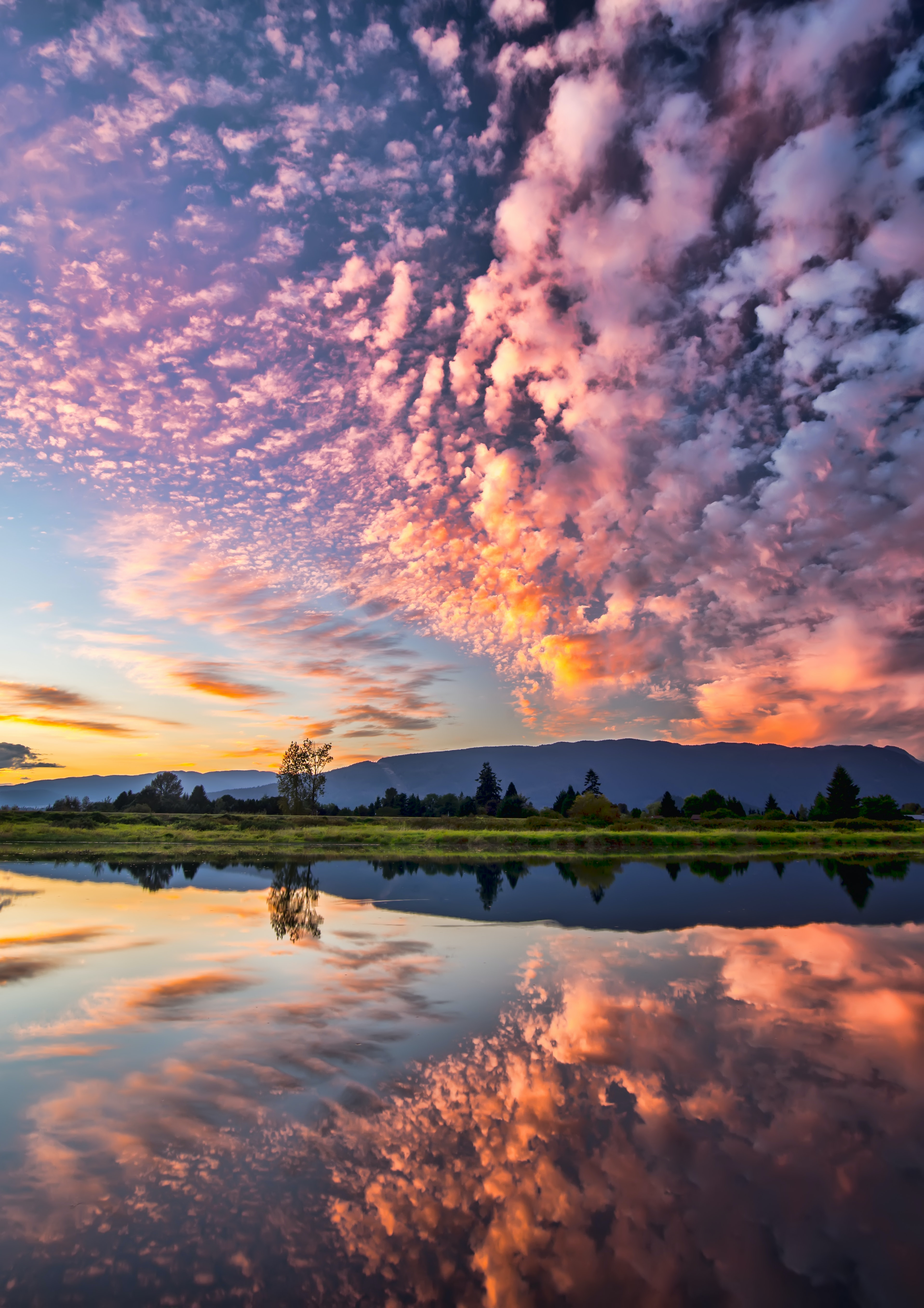
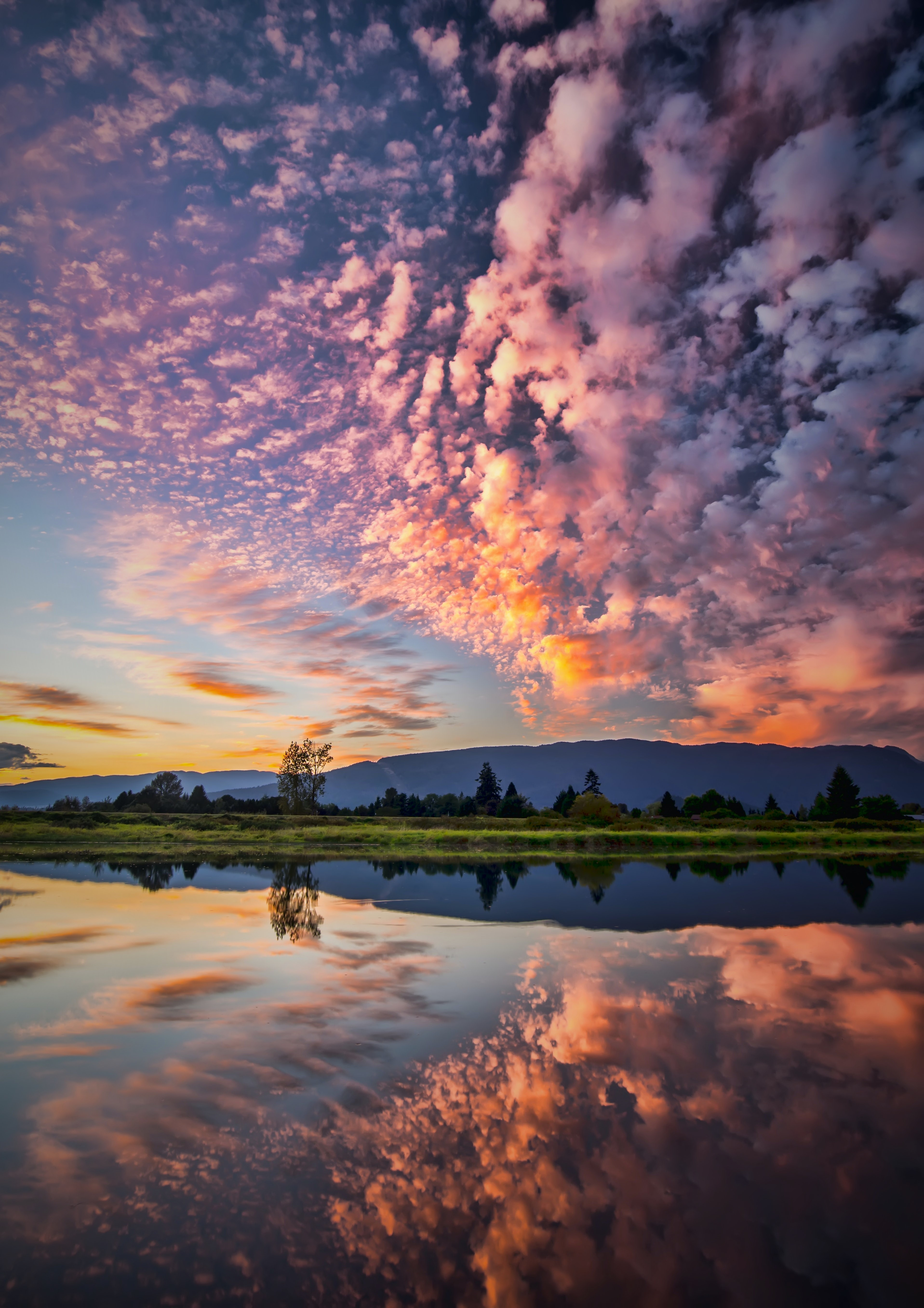
adding final styles and navigation to search for common places

diff --git a/src/App.css b/src/App.css
@@ -5,14 +5,14 @@ body {
 	box-sizing: border-box;
 }
 .App {
-	background-image: url(/src/img.jpg);
+	background-image: url(/src/img1.jpg);
 	height: 100vh;
 	background-position: center;
 	background-size: cover;
 	background-repeat: no-repeat;
 }
 .form-container {
-	padding-top: 2em;
+	padding-top: 1.5em;
 }
 .form-container h2 {
 	text-align: center;
@@ -50,6 +50,29 @@ body {
 	text-align: center;
 	background-color: rgba(255, 192, 203, 0.9);
 	width: 70%;
-	margin: 3em auto;
+	margin: 2em auto;
 	padding: 1em;
+}
+.suggestion-container h2 {
+	text-align: center;
+	color: white;
+}
+.search-container {
+	display: grid;
+	grid-template-columns: repeat(auto-fit, 32%);
+	row-gap: 5px;
+	column-gap: 5px;
+	margin: 0 1rem;
+}
+.search {
+	background-color: rgba(255, 255, 255, 0.7);
+	text-align: center;
+	cursor: pointer;
+}
+.search:hover {
+	background-color: rgba(255, 255, 255, 1);
+}
+.search h4 {
+	margin: 0.5rem auto;
+	color: rgb(63, 63, 63);
 }

diff --git a/src/components/Suggestion.js b/src/components/Suggestion.js
@@ -1,0 +1,35 @@
+import React from 'react';
+
+function Suggestion({ fetchData }) {
+	const handleClick = (grad) => {
+		fetchData(grad);
+	};
+	return (
+		<div className="suggestion-container">
+			<h2>Verovatno ces traziti:</h2>
+			<div className="search-container">
+				<div onClick={() => handleClick('Novi Sad')} className="search">
+					<h4>Novi Sad</h4>
+				</div>
+
+				<div onClick={() => handleClick('Zabalj')} className="search">
+					<h4>Zabalj</h4>
+				</div>
+
+				<div onClick={() => handleClick('Temerin')} className="search">
+					<h4>Temerin</h4>
+				</div>
+
+				<div onClick={() => handleClick('Zrenjanin')} className="search">
+					<h4>Zrenjanin</h4>
+				</div>
+
+				<div onClick={() => handleClick('Beograd')} className="search">
+					<h4>Beograd</h4>
+				</div>
+			</div>
+		</div>
+	);
+}
+
+export default Suggestion;

diff --git a/src/App.js b/src/App.js
@@ -2,6 +2,7 @@ import React, { useState, useEffect } from 'react';
 import axios from 'axios';
 import Form from './components/Form';
 import Weather from './components/Weather';
+import Suggestion from './components/Suggestion';
 import './App.css';
 
 function App() {
@@ -21,13 +22,14 @@ function App() {
 			});
 	};
 	useEffect(() => {
-		fetchData('Novi Sad');
+		fetchData('Gospodjinci');
 	}, []);
 
 	return (
 		<div className="App">
 			<Form weatherData={weatherData} fetchData={fetchData} />
 			<Weather weatherData={weatherData} />
+			<Suggestion fetchData={fetchData} />
 		</div>
 	);
 }
